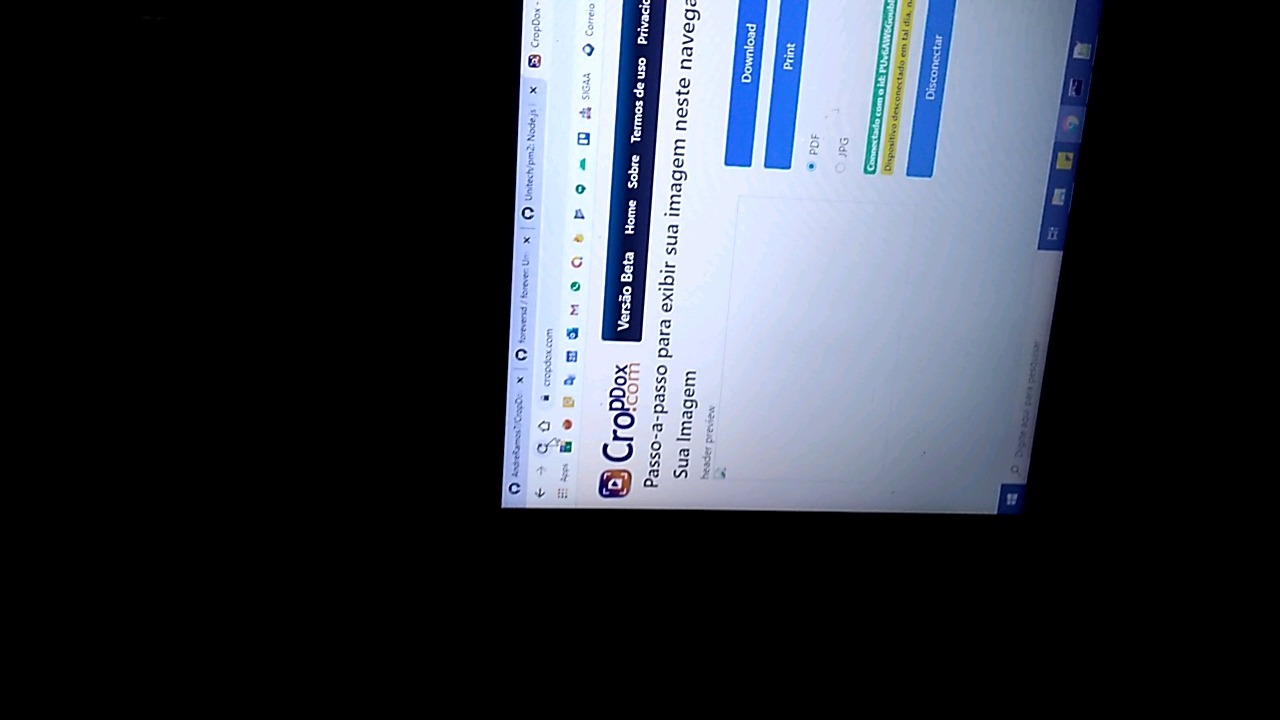
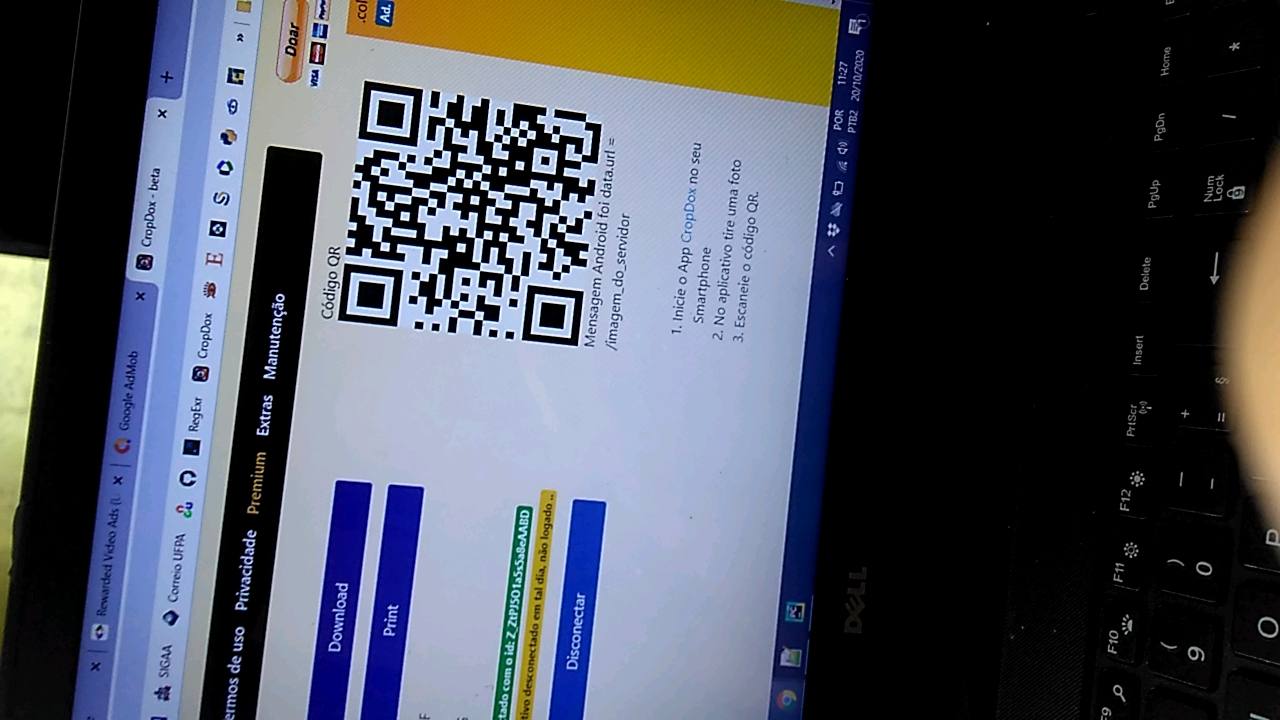
Alteracoes em paginas e estilos

diff --git a/servidor_node/static/content/about.html b/servidor_node/static/content/about.html
@@ -6,7 +6,7 @@
 				<h5>O Sistema CropDox</h5>	
 				<header class="badge badge-info">Objetivo</header>				
 				<article>
-					<p>CropDox é uma Aplicação Web que oferece Software como Serviço (SaaS) destinado a auxiliar em diversas rotinas de escritório. Dentre os objetivos do projeto, o principal, está relacionado ao desenvolvimento de funcionalidade para o processamento de imagens e aplicações inovadoras que utilizem Inteligência Artificial e Visualização da Informação.</p>				
+					<p>CropDox é uma Aplicação Web que oferece Software como Serviço (SaaS) destinado a auxiliar em diversas rotinas de escritório. Dentre os objetivos do projeto, o principal, está relacionado ao desenvolvimento de funcionalidades para o processamento de imagens e aplicações inovadoras que utilizem Inteligência Artificial e Visualização da Informação.</p>				
 				</article>
 				<header class="badge badge-info">Funcionalidades iniciais</header>		
 				<article>
@@ -17,7 +17,7 @@
 				<header class="badge badge-info">Quem desenvolveu?</header>
 				<h6></h6>
 				<article>
-					<p>O Projeto CropDox foi idealizado e desenvolvido, no ano de 2020 pelo Desenvolvedor <a href="https://www.linkedin.com/in/andrejaramos/">MSc. André de J. A. Ramos</a>, Cientista da Computação. André Possui graduação em Sistemas de Informação pela Universidade Federal do Pará (UFPA - 2016) e Mestrado em Ciência da Computação pela UFPA (2019), onde trabalhou com Modelagem e Simulação de Sistemas biológicos para o ensino da Medicina utilizando Dinâmica de Sistemas (DS). Foi bolsista e voluntário em projetos de pesquisas da UFPA, desenvolvendo tecnologias de sistemas voltados à educação e acessibilidade. Tem experiência na área de Ciência da Computação, com ênfase em Sistemas de Informação, atuando principalmente nos seguimentos: Desenvolvimento Fullstack de sistemas Desktop, Web e Mobile (Python, Java, CSharp, PHP e Android), Programação, Banco de dados e web service. É  Desenvolvedor de Aplicativos e jogos da Google Play; Possui interesse em: * Simulação médica;* pesquisas envolvendo aprendizado de máquina e processamento de imagem; * e-commerce; * banco de dados; * desenvolvimento de softwares e aplicativos de utilidade pública;</p>
+					<p>O Projeto CropDox foi idealizado e desenvolvido, no ano de 2020 pelo Desenvolvedor <a href="https://www.linkedin.com/in/andrejaramos/">MSc. André de J. A. Ramos</a>, Mestre em Ciência da Computação. André Possui graduação em Sistemas de Informação pela Universidade Federal do Pará (UFPA - 2016) e Mestrado em Ciência da Computação pela UFPA (2019), onde trabalhou com Modelagem e Simulação de Sistemas biológicos para o ensino da Medicina utilizando Dinâmica de Sistemas (DS). Foi bolsista e voluntário em projetos de pesquisas da UFPA, desenvolvendo tecnologias de sistemas voltados à educação e acessibilidade. Tem experiência na área de Ciência da Computação, com ênfase em Sistemas de Informação, atuando principalmente nos seguimentos: Desenvolvimento Fullstack de sistemas Desktop, Web e Mobile (Python, Java, CSharp, PHP e Android), Programação, Banco de dados e web service. É  Desenvolvedor de Aplicativos e jogos da Google Play; Possui interesse em: * Simulação médica;* pesquisas envolvendo aprendizado de máquina e processamento de imagem; * e-commerce; * banco de dados; * desenvolvimento de softwares e aplicativos de utilidade pública;</p>
 				</article>
 				
 			</div>	

diff --git a/servidor_node/static/content/home.html b/servidor_node/static/content/home.html
@@ -1,14 +1,14 @@
-<div class="container-fluid" id="instrucoes">
-	<h3 class="no-print">Passo-a-passo para exibir sua imagem neste navegador:</h3>
+<div class="container-fluid" id="instrucoes">	
 	<div class="row" id="">		
 		<div class="col-sm-9" >			
 			<div class="container-fluid" id="preview">
 				<h3 class="no-print">Sua Imagem</h3>
 				<div class="row" id="">
 					<div class="col-sm-6">
-						<header class="no-print">header preview</header>						
+						<header class="no-print">Previsualização</header>						
 						<article class="print">
 							<p ><img id="imagem_server" src="/static/imagens/doc.jpg" width=400 height=250></p>
+							<div id="android-msgs" ><span class='badge badge-success'>android-msgs: </span></div>						
 						</article>
 					</div>	
 					<div class="col-sm-6 no-print" >
@@ -35,7 +35,7 @@
 							</div>
 							<div class="form-group">
 								<span id="msgs" class="badge badge-success">Dispositivo conectado em tal dia, não logado ..</span>
-								<span class="badge badge-warning">Dispositivo desconectado em tal dia, não logado ..</span>
+								<span class="badge badge-warning">TODO..</span>
 							</div>									
 							<div class="form-group">
 								<button type="submit" class="btn btn-primary  botoes-largos">Disconectar</button>
@@ -46,10 +46,9 @@
 			</div>	
 		</div>
 		<div class="col-sm-3  no-print" >
-			<header>Header</header>		
+			<header>Código QR</header>		
 			<div class="no-print">				
-				<div id="qrcode"></div>
-				<div id="android-msgs" >android-msgs: </div>						
+				<div id="qrcode"></div>				
 			</div>		
 			<article>
 				<ol>
@@ -74,7 +73,7 @@
 	});
 
 	socket.on('mensagem android', function(data){
-		$("#android-msgs").html("Mensagem Android foi data.url = " + data.url + "<br><br><br>");
+		$("#android-msgs").html("<span class='badge badge-success'>Mensagem Android foi: data.url = " + data.url + "</span><br>");
 		$("img#imagem_server").attr("src", data.url);
 		console.log('escutei uma mensagem: ');					
 	});						

diff --git a/servidor_node/layout.html b/servidor_node/layout.html
@@ -183,4 +183,28 @@
 		</script>
 		
     </body>
+	<!-- The core Firebase JS SDK is always required and must be listed first -->
+	<script src="https://www.gstatic.com/firebasejs/7.24.0/firebase-app.js"></script>
+
+	<!-- TODO: Add SDKs for Firebase products that you want to use
+		 https://firebase.google.com/docs/web/setup#available-libraries -->
+	<script src="https://www.gstatic.com/firebasejs/7.24.0/firebase-analytics.js"></script>
+
+	<script>
+	  // Your web app's Firebase configuration
+	  // For Firebase JS SDK v7.20.0 and later, measurementId is optional
+	  var firebaseConfig = {
+		apiKey: "AIzaSyBn7Rf81sSXBkECdxObZLzjUPYKCXt48-M",
+		authDomain: "projeto-escaneador.firebaseapp.com",
+		databaseURL: "https://projeto-escaneador.firebaseio.com",
+		projectId: "projeto-escaneador",
+		storageBucket: "projeto-escaneador.appspot.com",
+		messagingSenderId: "67205684055",
+		appId: "1:67205684055:web:9761a02a1ddfdcaccdbc12",
+		measurementId: "G-E4X0EH197T"
+	  };
+	  // Initialize Firebase
+	  firebase.initializeApp(firebaseConfig);
+	  firebase.analytics();
+	</script>
 </html>

diff --git a/servidor_node/static/styles/estilo.css b/servidor_node/static/styles/estilo.css
@@ -52,7 +52,11 @@ body{
 	background-color: #1d5297;
 	width: 70%;
 }
-
+#qrcode{
+	border: solid 3px #13272c;
+    border-radius: 10px;
+    padding: 5px;
+}
 
 #footer{
 	background-color: #1d5297;
